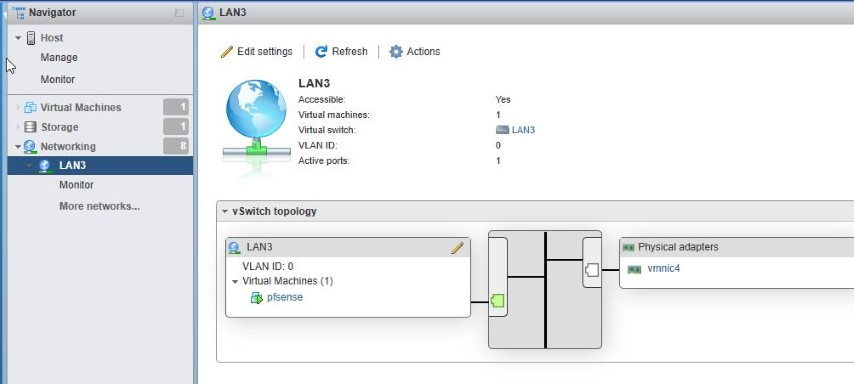
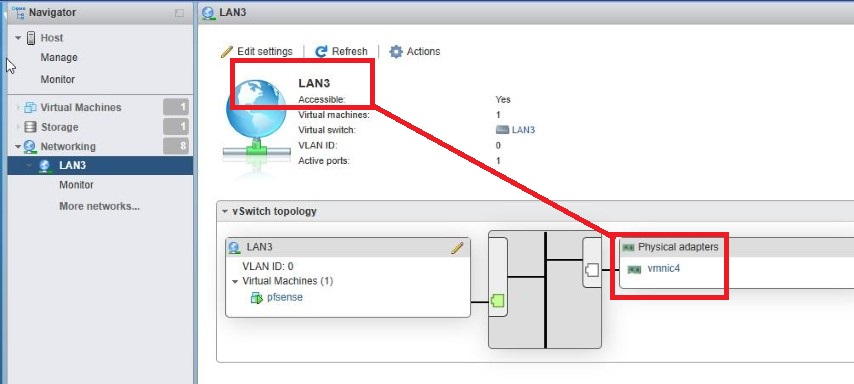
port mapping

diff --git a/firstPFSense.md b/firstPFSense.md
@@ -120,15 +120,33 @@ We are going to go through all of these mappings so that you are able to documen
         in this example, we know that the unknown port we plugged into corresponds to vmnic7 
 
         ![](https://github.com/mynah22/Homelab-Guides/raw/main/screenshots/firstConfig/pfs25.jpg)
-    4. 
+    4. repeat steps for all unknown ports, you now know the NIC names of all physical ports!
 
 
-**Ways to ID ports**
 
-- If you click on a port group you can see what NIC is attached: (screenshots 
-[1](https://github.com/mynah22/Homelab-Guides/raw/main/screenshots/firstConfig/esxiPortMap2.jpg)
-[2](https://github.com/mynah22/Homelab-Guides/raw/main/screenshots/firstConfig/esxiPortMap.jpg)
-)
+2. ### **Port Group Names**
+    you now should be able to look at a physical port and say it's NIC name (vmnic0-7) 
+
+    We will now determine which NICs are attached to the port groups in ESXI
+
+    1. Double check the vSwitch / port group assignments
+
+        We have set things up in ESXI so that each NIC is assigned to a single, isolated vSwitch and port group
+
+        vswitch0 should ONLY be used for the default 'VM Network' and 'Management Network' port groups - this is for security reasons
+
+        There should be 7 vSwitches, named WAN, LAN, and LAN2-6. These should each be the sole members of 7 identically named port groups. Here's what is should look like in Networking>Port groups: 
+        
+        ![screenshot](https://github.com/mynah22/Homelab-Guides/raw/main/screenshots/firstConfig/pfs26.jpg)
+    
+    2. Check which NIC is on each port group
+
+        If you click on a port group you can see what NIC is attached: (screenshots 
+        [1](https://github.com/mynah22/Homelab-Guides/raw/main/screenshots/firstConfig/esxiPortMap2.jpg)
+        [2](https://github.com/mynah22/Homelab-Guides/raw/main/screenshots/firstConfig/esxiPortMap.jpg)
+        )
+
+        
 - if you click on a physical NIC it will display the MAC address of the NIC ([screenshot](https://github.com/mynah22/Homelab-Guides/raw/main/screenshots/firstConfig/esxiNICMAC.jpg))
 
 
